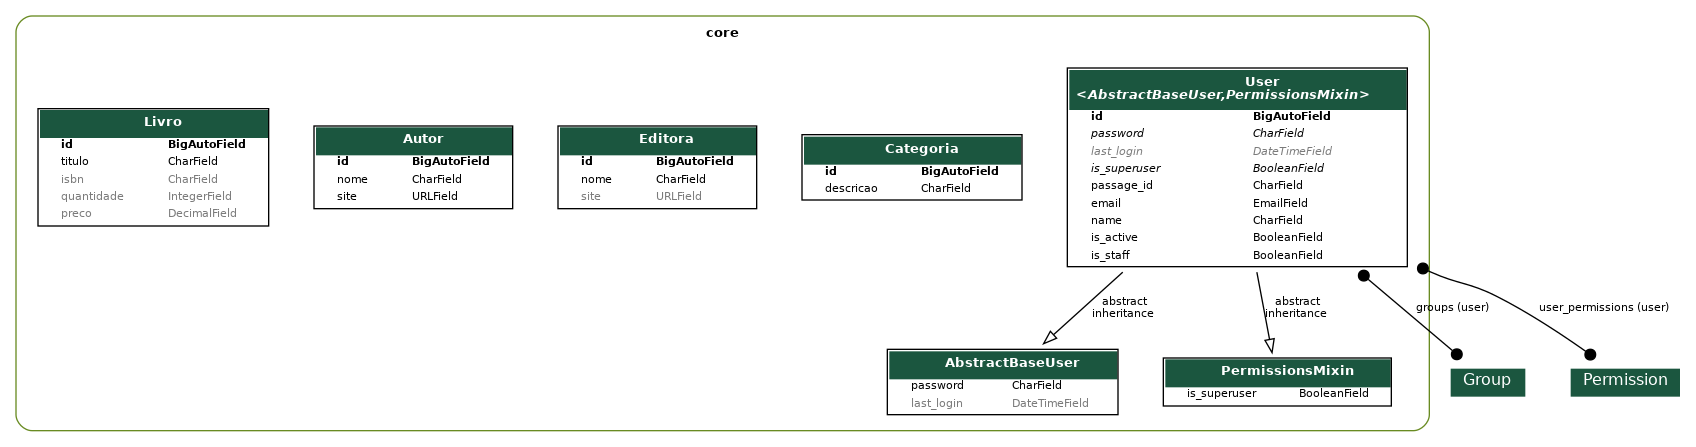
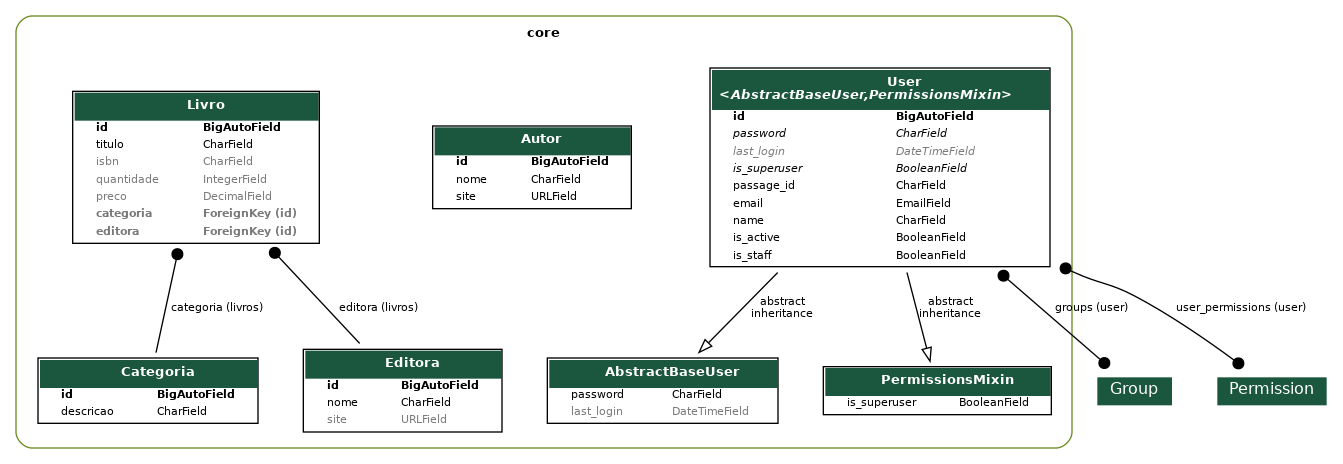
Adiciona relacionamento de Livro com Categoria e Editora

diff --git a/core/migrations/0006_livro_categoria_livro_editora.py b/core/migrations/0006_livro_categoria_livro_editora.py
@@ -1,0 +1,36 @@
+# Generated by Django 5.0.6 on 2024-08-23 17:50
+
+import django.db.models.deletion
+from django.db import migrations, models
+
+
+class Migration(migrations.Migration):
+
+    dependencies = [
+        ("core", "0005_livro"),
+    ]
+
+    operations = [
+        migrations.AddField(
+            model_name="livro",
+            name="categoria",
+            field=models.ForeignKey(
+                blank=True,
+                null=True,
+                on_delete=django.db.models.deletion.PROTECT,
+                related_name="livros",
+                to="core.categoria",
+            ),
+        ),
+        migrations.AddField(
+            model_name="livro",
+            name="editora",
+            field=models.ForeignKey(
+                blank=True,
+                null=True,
+                on_delete=django.db.models.deletion.PROTECT,
+                related_name="livros",
+                to="core.editora",
+            ),
+        ),
+    ]

diff --git a/core/models/livro.py b/core/models/livro.py
@@ -8,3 +8,9 @@ class Livro(models.Model):
 
     def __str__(self):
         return f"({self.id}) {self.titulo} ({self.quantidade})"
+    from .categoria import Categoria
+    categoria = models.ForeignKey(
+        Categoria, on_delete=models.PROTECT, related_name="livros", null=True, blank=True
+    )
+    from .editora import Editora
+    editora = models.ForeignKey(Editora, on_delete=models.PROTECT, related_name="livros", null=True, blank=True)
